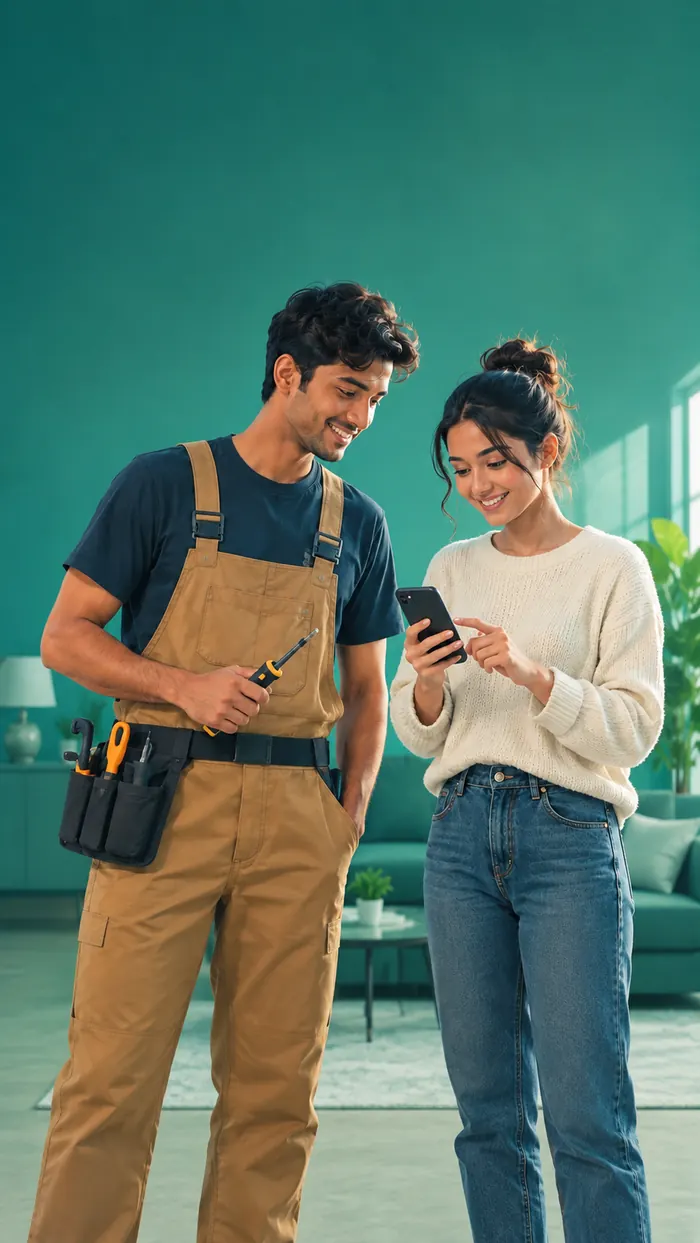
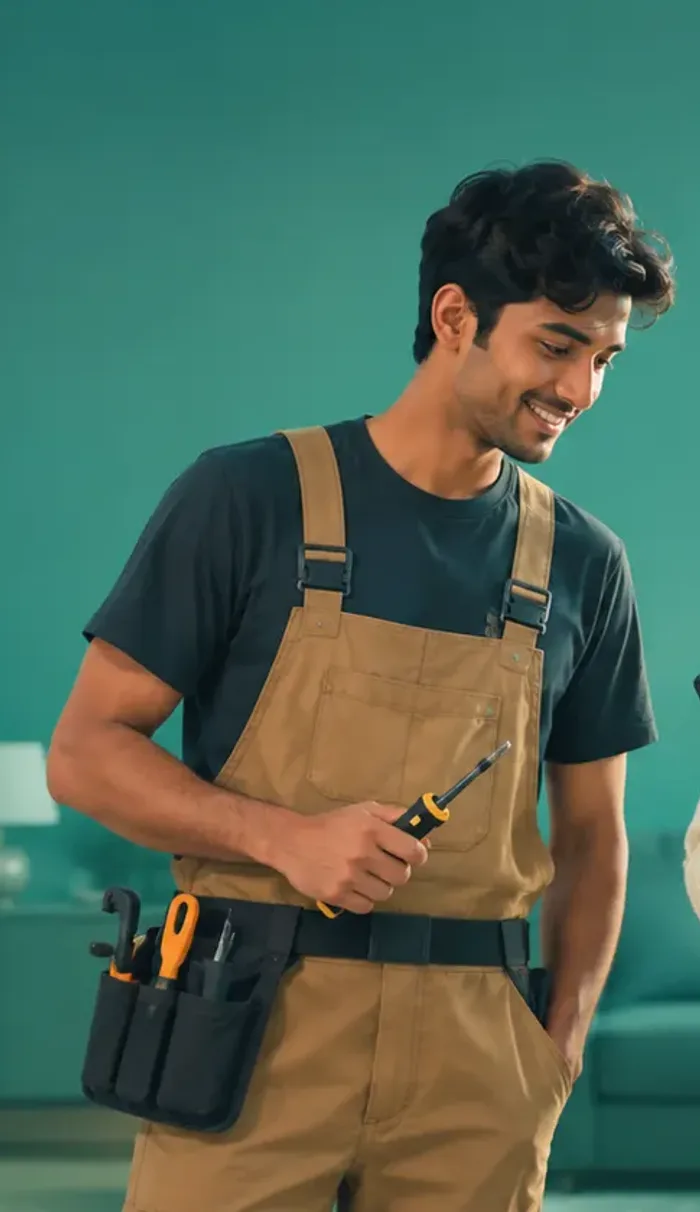
Landing: fix hero text/face overlap, nav crowding, and disconnected CTA/footer
- Re-crop the mobile hero photo with more open background to the male
  subject's left, and narrow the hero heading/subcopy on mobile so the
  headline sits clearly over open wall instead of across his face.
- Header nav links now group close to the logo instead of floating at
  dead-center of the bar between the logo and the right-side controls.
- Merge the closing CTA band and footer into one continuous section
  (ClosingCtaAndFooter) sharing the same photo + gradient background,
  so the "Ready to get started?" content and the footer links below it
  no longer read as two disconnected blocks.

Claude-Session: https://claude.ai/code/session_016nUpw1EErmSpyxg1dJ7A1i

diff --git a/apps/web/src/screens/Landing/Landing.jsx b/apps/web/src/screens/Landing/Landing.jsx
@@ -235,14 +235,21 @@ function LandingHeader() {
   return (
     <header className="sticky top-0 z-20 border-b border-border bg-surface/90 backdrop-blur-md">
       <div className="mx-auto flex max-w-6xl flex-wrap items-center justify-between gap-3 px-5 py-3 sm:px-6 sm:py-4 lg:px-8">
-        <Wordmark />
-        <nav className="hidden items-center gap-6 text-sm font-medium text-text-muted sm:flex">
-          {navLinks.map((link) => (
-            <a key={link.href} href={link.href} className="transition-colors hover:text-text">
-              {link.label}
-            </a>
-          ))}
-        </nav>
+        {/* Logo + nav grouped together (and close to each other via gap-8)
+            so nav links sit near the logo on the left, not floating at
+            dead-center of the bar between the logo and the right-side
+            controls - a plain 3-child justify-between row would space all
+            three evenly instead. */}
+        <div className="flex min-w-0 items-center gap-8">
+          <Wordmark />
+          <nav className="hidden items-center gap-6 text-sm font-medium text-text-muted sm:flex">
+            {navLinks.map((link) => (
+              <a key={link.href} href={link.href} className="transition-colors hover:text-text">
+                {link.label}
+              </a>
+            ))}
+          </nav>
+        </div>
         <div className="flex shrink-0 flex-wrap items-center gap-1.5 sm:gap-2">
           <ThemeToggle />
           <LanguageToggle />
@@ -313,7 +320,7 @@ function Hero() {
           src="/images/hero-mobile.webp"
           alt="A Sajilo Bazar worker and customer looking at a booking together on a phone"
           fetchpriority="high"
-          className="absolute inset-0 h-full w-full object-cover object-[80%_35%] sm:object-[72%_center]"
+          className="absolute inset-0 h-full w-full object-cover object-center sm:object-[50%_center]"
         />
       </picture>
       <div className="pointer-events-none absolute inset-0" style={HERO_OVERLAY} />
@@ -326,12 +333,12 @@ function Hero() {
           initial={{ opacity: 0, y: 8 }}
           animate={{ opacity: 1, y: 0 }}
           transition={{ duration: 0.3 }}
-          className="max-w-2xl text-4xl font-extrabold tracking-tight text-white sm:text-5xl"
+          className="max-w-[220px] text-4xl font-extrabold tracking-tight text-white sm:max-w-lg sm:text-5xl"
         >
           Sajilo Bazar connects people who need work done with people who do
           it.
         </motion.h1>
-        <p className="max-w-xl text-lg text-white/90">
+        <p className="max-w-[240px] text-lg text-white/90 sm:max-w-md">
           Post a job or list your skills — matching, tracking, and payment all
           happen right in the app.
         </p>
@@ -561,33 +568,18 @@ function WhatToExpect() {
   );
 }
 
-// Full-bleed closing band (Round H) - same photo -> gradient -> text
-// treatment as Hero/About above, just stronger (the whole card's content
-// sits on the photo here, not next to it), since this is the page's final
-// call to action.
-function ClosingCTA() {
-  const { t } = useLanguage();
-  return (
-    <section className="relative overflow-hidden px-5 py-24 text-center sm:px-6 lg:px-8">
-      <picture>
-        <source media="(min-width: 1024px)" srcSet="/images/cta-desktop.webp" />
-        <img
-          src="/images/cta-mobile.webp"
-          alt="A Sajilo Bazar worker on their way to a job"
-          className="absolute inset-0 h-full w-full object-cover"
-        />
-      </picture>
-      <div className="pointer-events-none absolute inset-0 bg-gradient-to-t from-black/85 via-black/55 to-black/35" />
-      <Reveal className="relative z-10 mx-auto max-w-2xl">
-        <h2 className="text-2xl font-bold tracking-tight text-white sm:text-3xl">{t('landing.cta.heading')}</h2>
-        <p className="mt-3 text-white/85">{t('landing.cta.subcopy')}</p>
-        <Link to="/signup" className="mt-6 inline-block">
-          <Button className="px-8 py-3.5 text-base">{t('landing.cta.button')}</Button>
-        </Link>
-      </Reveal>
-    </section>
-  );
-}
+// Photo -> gradient -> text treatment, same as Hero/About above - covers
+// both the closing CTA content and the footer links below it in one
+// continuous section (Round I) so the two no longer read as disconnected
+// blocks (a short photo band handing off to a separate flat-dark footer).
+// The gradient goes fully solid to #0f1115 - the exact color the footer
+// used as its own flat background before - well before the footer content
+// starts, so link/copy legibility is unchanged even though it's now the
+// same <section> as the photo.
+const CLOSING_OVERLAY = {
+  background:
+    'linear-gradient(to bottom, rgba(0,0,0,0.45) 0%, rgba(0,0,0,0.72) 22%, rgba(15,17,21,0.94) 40%, #0f1115 58%, #0f1115 100%)',
+};
 
 const SOCIAL_LINKS = [
   { href: '#', label: 'Facebook', icon: <FacebookIcon /> },
@@ -596,54 +588,75 @@ const SOCIAL_LINKS = [
 ];
 
 // Restyled only - same real links (Terms/Privacy/Contact, socials) as
-// before, just on the new dark multi-column treatment. TODO (unchanged
-// from before this round): swap the '#' placeholders for real social
-// profile URLs once those accounts exist.
-function LandingFooter() {
+// before. TODO (unchanged from before this round): swap the '#'
+// placeholders for real social profile URLs once those accounts exist.
+function ClosingCtaAndFooter() {
   const { t } = useLanguage();
   return (
-    <footer className="bg-[#0f1115] px-5 py-14 text-white/80 sm:px-6 lg:px-8">
-      <div className="mx-auto grid max-w-6xl grid-cols-1 gap-10 sm:grid-cols-3">
-        <div>
-          <Wordmark className="text-white" />
-          <p id="footer-contact" className="mt-4 text-sm text-white/60">
-            {t('landing.footer.contactBody')}
-          </p>
-        </div>
-        <div>
-          <p className="text-sm font-semibold text-white">{t('landing.footer.legalHeading')}</p>
-          <nav className="mt-3 flex flex-col gap-2 text-sm">
-            <Link to="/terms" className="text-white/70 transition-colors hover:text-white">
-              {t('landing.footer.terms')}
-            </Link>
-            <Link to="/privacy" className="text-white/70 transition-colors hover:text-white">
-              {t('landing.footer.privacy')}
-            </Link>
-            <a href="#footer-contact" className="text-white/70 transition-colors hover:text-white">
-              {t('landing.footer.contact')}
-            </a>
-          </nav>
-        </div>
-        <div>
-          <p className="text-sm font-semibold text-white">{t('landing.footer.followHeading')}</p>
-          <div className="mt-3 flex items-center gap-3">
-            {SOCIAL_LINKS.map((social) => (
-              <a
-                key={social.label}
-                href={social.href}
-                aria-label={social.label}
-                className="flex h-9 w-9 items-center justify-center rounded-full bg-white/10 text-white/70 transition-colors hover:bg-white/20 hover:text-white"
-              >
-                {social.icon}
+    <section className="relative overflow-hidden">
+      <picture>
+        <source media="(min-width: 1024px)" srcSet="/images/cta-desktop.webp" />
+        <img
+          src="/images/cta-mobile.webp"
+          alt="A Sajilo Bazar worker on their way to a job"
+          className="absolute inset-0 h-full w-full object-cover object-[center_22%] sm:object-[center_15%]"
+        />
+      </picture>
+      <div className="pointer-events-none absolute inset-0" style={CLOSING_OVERLAY} />
+
+      <div className="relative z-10 px-5 pb-14 pt-20 text-center sm:px-6 lg:px-8 lg:pt-24">
+        <Reveal className="mx-auto max-w-2xl">
+          <h2 className="text-2xl font-bold tracking-tight text-white sm:text-3xl">{t('landing.cta.heading')}</h2>
+          <p className="mt-3 text-white/85">{t('landing.cta.subcopy')}</p>
+          <Link to="/signup" className="mt-6 inline-block">
+            <Button className="px-8 py-3.5 text-base">{t('landing.cta.button')}</Button>
+          </Link>
+        </Reveal>
+      </div>
+
+      <footer className="relative z-10 px-5 pb-14 pt-6 text-white/80 sm:px-6 lg:px-8">
+        <div className="mx-auto grid max-w-6xl grid-cols-1 gap-10 sm:grid-cols-3">
+          <div>
+            <Wordmark className="text-white" />
+            <p id="footer-contact" className="mt-4 text-sm text-white/60">
+              {t('landing.footer.contactBody')}
+            </p>
+          </div>
+          <div>
+            <p className="text-sm font-semibold text-white">{t('landing.footer.legalHeading')}</p>
+            <nav className="mt-3 flex flex-col gap-2 text-sm">
+              <Link to="/terms" className="text-white/70 transition-colors hover:text-white">
+                {t('landing.footer.terms')}
+              </Link>
+              <Link to="/privacy" className="text-white/70 transition-colors hover:text-white">
+                {t('landing.footer.privacy')}
+              </Link>
+              <a href="#footer-contact" className="text-white/70 transition-colors hover:text-white">
+                {t('landing.footer.contact')}
               </a>
-            ))}
+            </nav>
+          </div>
+          <div>
+            <p className="text-sm font-semibold text-white">{t('landing.footer.followHeading')}</p>
+            <div className="mt-3 flex items-center gap-3">
+              {SOCIAL_LINKS.map((social) => (
+                <a
+                  key={social.label}
+                  href={social.href}
+                  aria-label={social.label}
+                  className="flex h-9 w-9 items-center justify-center rounded-full bg-white/10 text-white/70 transition-colors hover:bg-white/20 hover:text-white"
+                >
+                  {social.icon}
+                </a>
+              ))}
+            </div>
           </div>
         </div>
-      </div>
-      <div className="mx-auto mt-10 max-w-6xl border-t border-white/10 pt-6 text-center text-xs text-white/50">
-        &copy; {new Date().getFullYear()} Sajilo Bazar. {t('landing.footer.rights')}
-      </div>
-    </footer>
+        <div className="mx-auto mt-10 max-w-6xl border-t border-white/10 pt-6 text-center text-xs text-white/50">
+          &copy; {new Date().getFullYear()} Sajilo Bazar. {t('landing.footer.rights')}
+        </div>
+      </footer>
+    </section>
   );
 }
 
@@ -663,8 +676,7 @@ export function Landing() {
       <WhyChooseUs />
       <HowItWorks />
       <WhatToExpect />
-      <ClosingCTA />
-      <LandingFooter />
+      <ClosingCtaAndFooter />
     </div>
   );
 }
